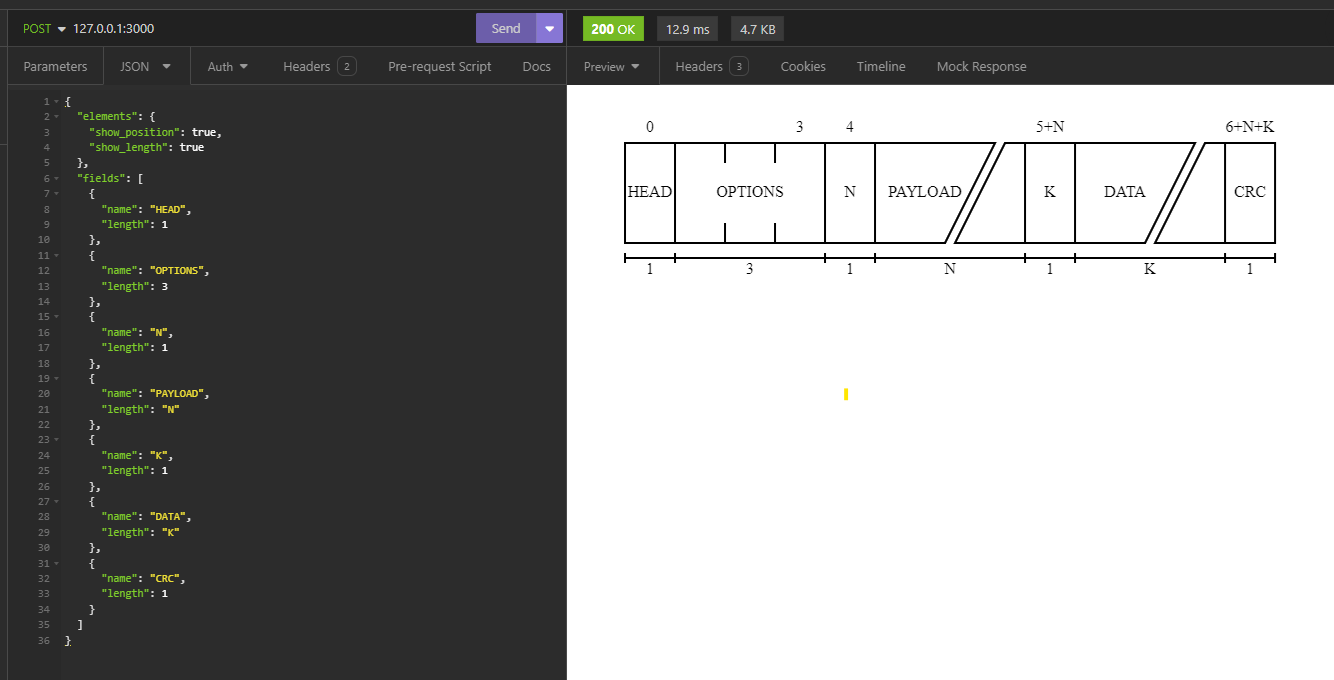
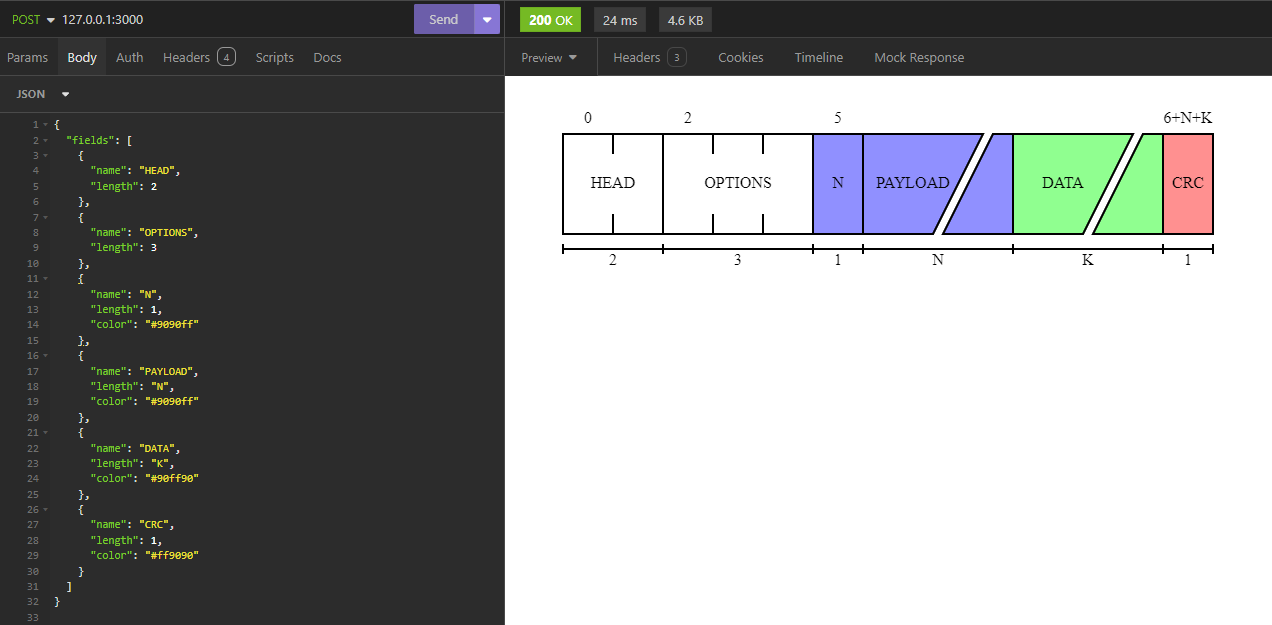
Add styling

diff --git a/src/descriptor.rs b/src/descriptor.rs
@@ -1,3 +1,4 @@
+use hex_color::HexColor;
 use serde::{Deserialize, Serialize};
 
 /// Enum to hold the length of a field
@@ -13,14 +14,62 @@ pub enum FieldLength {
 pub struct FieldDescriptor {
     pub name: String,
     pub length: FieldLength,
+    pub color: Option<HexColor>, // Color of the field
 }
 
 /// Struct to hold the options for the image elements
-#[derive(Debug, Deserialize, Serialize, Default)]
+#[derive(Debug, Deserialize, Serialize)]
 pub struct ElementsDescriptor {
     //TODO: pub is_network: bool, // Whether it is a network protocol (big endian)
-    pub show_position: bool, // Whether to show the position of the fields
-    pub show_length: bool, // Whether to show the length of the fields
+    #[serde(default = "default_true")]
+    pub position: bool, // Whether to show the position of the fields
+    #[serde(default = "default_true")]
+    pub length: bool, // Whether to show the length of the fields
+}
+
+impl Default for ElementsDescriptor {
+    fn default() -> Self {
+        Self {
+            position: true,
+            length: true,
+        }
+    }
+}
+
+fn default_true() -> bool {
+    true
+}
+
+/// Struct to hold the options for the image style
+#[derive(Debug, Deserialize, Serialize)]
+pub struct StyleDescriptor {
+    #[serde(default = "default_white")]
+    pub background_color: HexColor, // Background color of the image
+    #[serde(default = "default_white")]
+    pub fill_color: HexColor, // Fill color of the image (field background)
+    #[serde(default = "default_black")]
+    pub text_color: HexColor, // Text color of the image (field names + stroke)
+    #[serde(default = "default_black")]
+    pub subtitle_color: HexColor, // Color of the subtitle text (field length and position)
+}
+
+impl Default for StyleDescriptor {
+    fn default() -> Self {
+        Self {
+            background_color: default_white(),
+            fill_color: default_white(),
+            text_color: default_black(),
+            subtitle_color: default_black(),
+        }
+    }
+}
+
+fn default_white() -> HexColor {
+    HexColor::rgb(255, 255, 255)
+}
+
+fn default_black() -> HexColor {
+    HexColor::rgb(0, 0, 0)
 }
 
 /// Struct to hold the options for a protocol
@@ -28,5 +77,7 @@ pub struct ElementsDescriptor {
 pub struct ProtoDescriptor {
     #[serde(default)]
     pub elements: ElementsDescriptor, // Options for the image elements
+    #[serde(default)]
+    pub style: StyleDescriptor, // Options for the image style
     pub fields: Vec<FieldDescriptor>, // List of fields the protocol contains
 }

diff --git a/src/lib.rs b/src/lib.rs
@@ -29,43 +29,56 @@ pub fn render(descriptor: &descriptor::ProtoDescriptor) -> Result<String, Error>
     let mut context = Context::new();
 
     context.insert("fields", &descriptor.fields);
-    context.insert("show_length", &descriptor.elements.show_length);
-    context.insert("show_position", &descriptor.elements.show_position);
+    context.insert("elements", &descriptor.elements);
+    context.insert("style", &descriptor.style);
 
     Tera::one_off(include_str!("../template.svg"), &context, false).map_err(|e| Error::TeraError(e))
 }
 
 #[cfg(test)]
 mod tests {
+    use hex_color::HexColor;
+
     use super::*;
 
     #[test]
     fn test_render() {
         let descriptor = descriptor::ProtoDescriptor {
             elements: descriptor::ElementsDescriptor {
-                show_position: true,
-                show_length: true,
+                position: true,
+                length: true,
+            },
+            style: descriptor::StyleDescriptor {
+                background_color: HexColor::rgb(255, 255, 255),
+                fill_color: HexColor::rgb(255, 255, 255),
+                text_color: HexColor::rgb(0, 0, 0),
+                subtitle_color: HexColor::rgb(0, 0, 0),
             },
             fields: vec![
                 descriptor::FieldDescriptor {
                     name: "field0".to_string(),
                     length: descriptor::FieldLength::Fixed(1),
+                    color: None,
                 },
                 descriptor::FieldDescriptor {
                     name: "field1".to_string(),
                     length: descriptor::FieldLength::Fixed(2),
+                    color: None,
                 },
                 descriptor::FieldDescriptor {
                     name: "field2".to_string(),
                     length: descriptor::FieldLength::Fixed(1),
+                    color: None,
                 },
                 descriptor::FieldDescriptor {
                     name: "field3".to_string(),
                     length: descriptor::FieldLength::Variable("N".to_string()),
+                    color: None,
                 },
                 descriptor::FieldDescriptor {
                     name: "field4".to_string(),
                     length: descriptor::FieldLength::Fixed(1),
+                    color: None,
                 },
             ],
         };

diff --git a/examples/README.md b/examples/README.md
@@ -6,3 +6,28 @@ This example uses Axum to serve an API capable of converting JSON payloads into 
 You can run it with: ```cargo run --example api```
 
 ![Request Image](../images/api_example.png)
+
+### JSON Format
+- `style` (optional):
+    - `background_color` (optional): Hex Color (RGB/RGBA) (Default: #ffffff)
+        - Image background color
+    - `fill_color` (optional): Hex Color (RGB/RGBA) (Default: #ffffff)
+        - Field fill color
+    - `text_color` (optional): Hex Color (RGB/RGBA) (Default: #000000)
+        - Field text color (and stroke color)
+    - `subtitle_color` (optional): Hex Color (RGB/RGBA) (Default: #000000)
+        - Subtitle text color
+- `elements` (optional):
+    - `position` (optional): Bool (Default: true)
+        - Whether to show the position number at the start of each field
+    - `length` (optional): Bool (Default: true)
+        - Whether to show the length of each field
+- `fields` (array of field objects):
+    - `name`: String
+        - The name of the field
+    - `length`: String or Integer
+        - The length of the field, with a string value meaning a variable length with the given name
+    - `color` (optional): Hex Color (RGB/RGBA) (Default: fill_color)
+        - Fill color for this specific field
+
+    

diff --git a/README.md b/README.md
@@ -1,4 +1,5 @@
 # ProtoViz
+![Example](./images/example.svg)
 
 This library is an attempt to create a fast and intuitive way of creating figures for protocol specifications.
 
@@ -6,4 +7,4 @@ Currently it supports protocols with fixed and variable field sizes, with the op
 
 It uses [Tera](https://keats.github.io/tera/docs) for generating the SVG file.
 
-For a pratical use, check the [examples readme](./examples/README.md).
+For a pratical use case, check the [examples readme](./examples/README.md).
